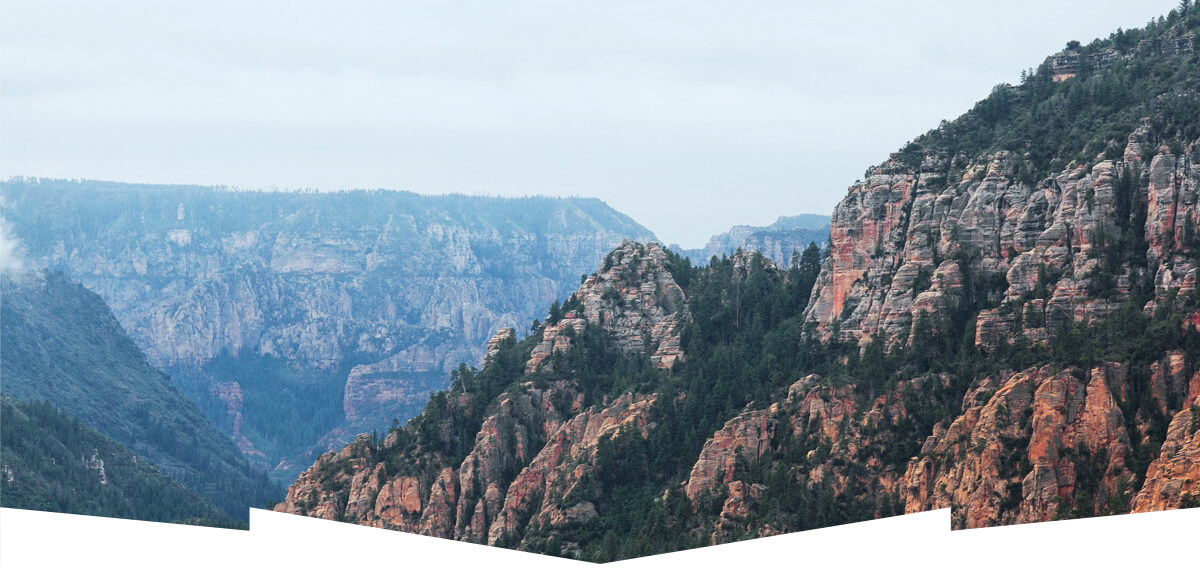
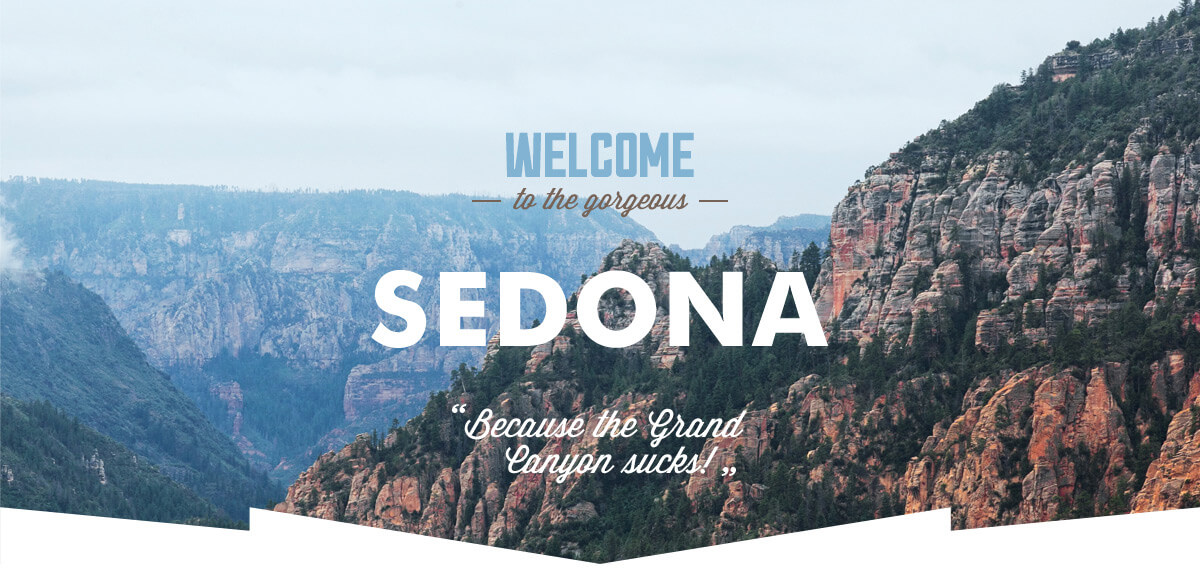
Правки

Changed region(s): [[0.3083, 0.4789, 0.7092, 0.6285], [0.4008, 0.2095, 0.5858, 0.3891], [0.37, 0.7183, 0.6167, 0.838]]

diff --git a/css/style.css b/css/style.css
@@ -204,7 +204,7 @@ a {
 
 .first-reason h3 {
   margin: 0 auto;
-  padding: 47px 133px 24px;
+  padding: 47px 133px 23px;
 
   font-size: 21px;
   line-height: 21px;
@@ -225,7 +225,7 @@ a {
 
 .recommendations {
   display: flex;
-  padding-bottom: 66px;
+  padding-bottom: 68px;
 
   background-color: #ffffff;
 }
@@ -270,8 +270,7 @@ a {
 .second-reason h3 {
   width: 151px;
   margin: 0 auto;
-  padding-top: 46px;
-  padding-bottom: 25px;
+  padding: 47px 0 24px 0;
 
   font-size: 21px;
   line-height: 21px;
@@ -293,7 +292,7 @@ a {
 .reasons {
   display: flex;
   justify-content: space-around;
-  margin: -6px 0 50px;
+  margin: -6px 0 48px;
   padding-bottom: 60px;
 
   background-color: #eeeeee;
@@ -307,7 +306,7 @@ a {
 
 .reason h3 {
   margin: 0 auto;
-  padding: 49px 125px 22px;
+  padding: 47px 125px 24px;
 
   font-size: 21px;
   line-height: 21px;
@@ -527,7 +526,7 @@ a {
 
 .modal-search {
   position: absolute; 
-  top: 2169px;
+  top: 2167px;
   left: 50%;
 
   display: flex;
@@ -537,7 +536,8 @@ a {
 }
 
 .search-form {
-  padding: 55px 55px 0 55px;
+  margin: 0 auto;
+  padding: 55px 54px 0 54px;
 
   background-color: #ffffff;
   box-shadow: 0px 6px 7px 2px rgba(0, 1, 1, 0.1);
@@ -556,7 +556,7 @@ a {
 }
 
 .search-item label {
-  margin-left: 2px;
+  margin: 4px 0 0 2px;
 }
 
 .temporary-container {
@@ -577,7 +577,7 @@ a {
   width: 346px;
   width: 100%;
   height: 38px;
-  padding-left: 12px;
+  padding: 2px 0 0 12px;
   box-sizing: border-box;
   
   font-size: 14px;
@@ -790,7 +790,7 @@ a {
   display: none;
 }
 
-.filter-input-checkbox:checked + label:before {
+.filter-input-checkbox:checked + label::before {
   display: inline-block;
   content: '';
   width: 27px;
@@ -803,7 +803,18 @@ a {
   background-repeat: no-repeat;
 }
 
-.filter-input-checkbox + label:before {
+.filter-disabled:checked:disabled + label::before {
+  background-image: url('../img/checkbox-on-disabled.svg');
+  opacity: 0.3;
+
+  cursor: not-allowed;
+}
+
+.filter-disabled:checked:disabled + label {
+  cursor: not-allowed;
+}
+
+.filter-input-checkbox + label::before {
   display: inline-block;
   content: '';
   width: 27px;
@@ -816,6 +827,17 @@ a {
   background-repeat: no-repeat;
 }
 
+.filter-disabled:disabled + label::before {
+  background-image: url('../img/checkbox-off-disabled.svg');
+  opacity: 0.3;
+
+  cursor: not-allowed;
+}
+
+.filter-disabled:disabled + label {
+  cursor: not-allowed;
+}
+
 .filter-range {
   width: 324px;
   margin: 50px 73px 0 0;
@@ -825,7 +847,7 @@ a {
 }
 
 .filter-range-title {
-  margin: 0 0 10px 6px;
+  margin: 0 0 10px 9px;
 
   font-size: 16px;
   line-height: 21px;
@@ -1096,13 +1118,13 @@ a {
 }
 
 .search-results .hotel:nth-child(2) {
-  margin-bottom: 26px;
+  margin-bottom: 25px;
   padding-bottom: 28px;
 }
 
 .search-results .hotel:last-child {
   margin-bottom: 0;
-  padding-bottom: 26px;
+  padding-bottom: 29px;
 }
 
 .hotel-details {

diff --git a/hotels.html b/hotels.html
@@ -31,15 +31,15 @@
           <legend>Инфраструктура:</legend>
             <ul class="filter-list">
               <li class="filter-option">
-                <input class="filter-input filter-input-checkbox" type="checkbox" name="pool" id="pool-filter" checked>
+                <input class="filter-input filter-input-checkbox filter-disabled" type="checkbox" name="pool" id="pool-filter" checked>
                 <label for="pool-filter">Бассейн</label>
               </li>
               <li class="filter-option">
-                <input class="filter-input filter-input-checkbox" type="checkbox" name="parking" id="parking-filter">
+                <input class="filter-input filter-input-checkbox filter-disabled" type="checkbox" name="parking" id="parking-filter">
                 <label for="parking-filter">Парковка</label>  
               </li>
               <li class="filter-option">
-                <input class="filter-input filter-input-checkbox" type="checkbox" name="wifi" id="wifi-filter">
+                <input class="filter-input filter-input-checkbox filter-disabled" type="checkbox" name="wifi" id="wifi-filter">
                 <label for="wifi-filter">Wi-fi</label>
               </li>
             </ul>
@@ -48,15 +48,15 @@
           <legend>Тип жилья:</legend>
           <ul class="filter-list">
             <li class="filter-option">
-              <input class="filter-input filter-input-checkbox" type="checkbox" name="hotel" id="hotel-filter" checked>
+              <input class="filter-input filter-input-checkbox filter-disabled" type="checkbox" name="hotel" id="hotel-filter" checked>
               <label for="hotel-filter">Гостиница</label>
             </li>
             <li class="filter-option">
-              <input class="filter-input filter-input-checkbox" type="checkbox" name="motel" id="motel-filter" checked>
+              <input class="filter-input filter-input-checkbox filter-disabled" type="checkbox" name="motel" id="motel-filter" checked>
               <label for="motel-filter">Мотель</label>
             </li>
             <li class="filter-option">
-              <input class="filter-input filter-input-checkbox" type="checkbox" name="apartement" id="apartement-filter" checked>
+              <input class="filter-input filter-input-checkbox filter-disabled" type="checkbox" name="apartement" id="apartement-filter" checked>
               <label for="apartement-filter">Апартаменты</label>
             </li>
           </ul>

diff --git a/index.html b/index.html
@@ -26,7 +26,7 @@
     </header>
     <main class="main-container">
       <div class="background-image">
-        <img src="img/background-text.png" width="458" height="352" alt="Welcome to the gorgeous Sedona!">
+        <!-- <img src="img/background-text.png" width="458" height="352" alt="Welcome to the gorgeous Sedona!"> -->
       </div>
       <h1 class="visually-hidden">Добро пожаловать в Седону!</h1>
       <div class="description-container">
